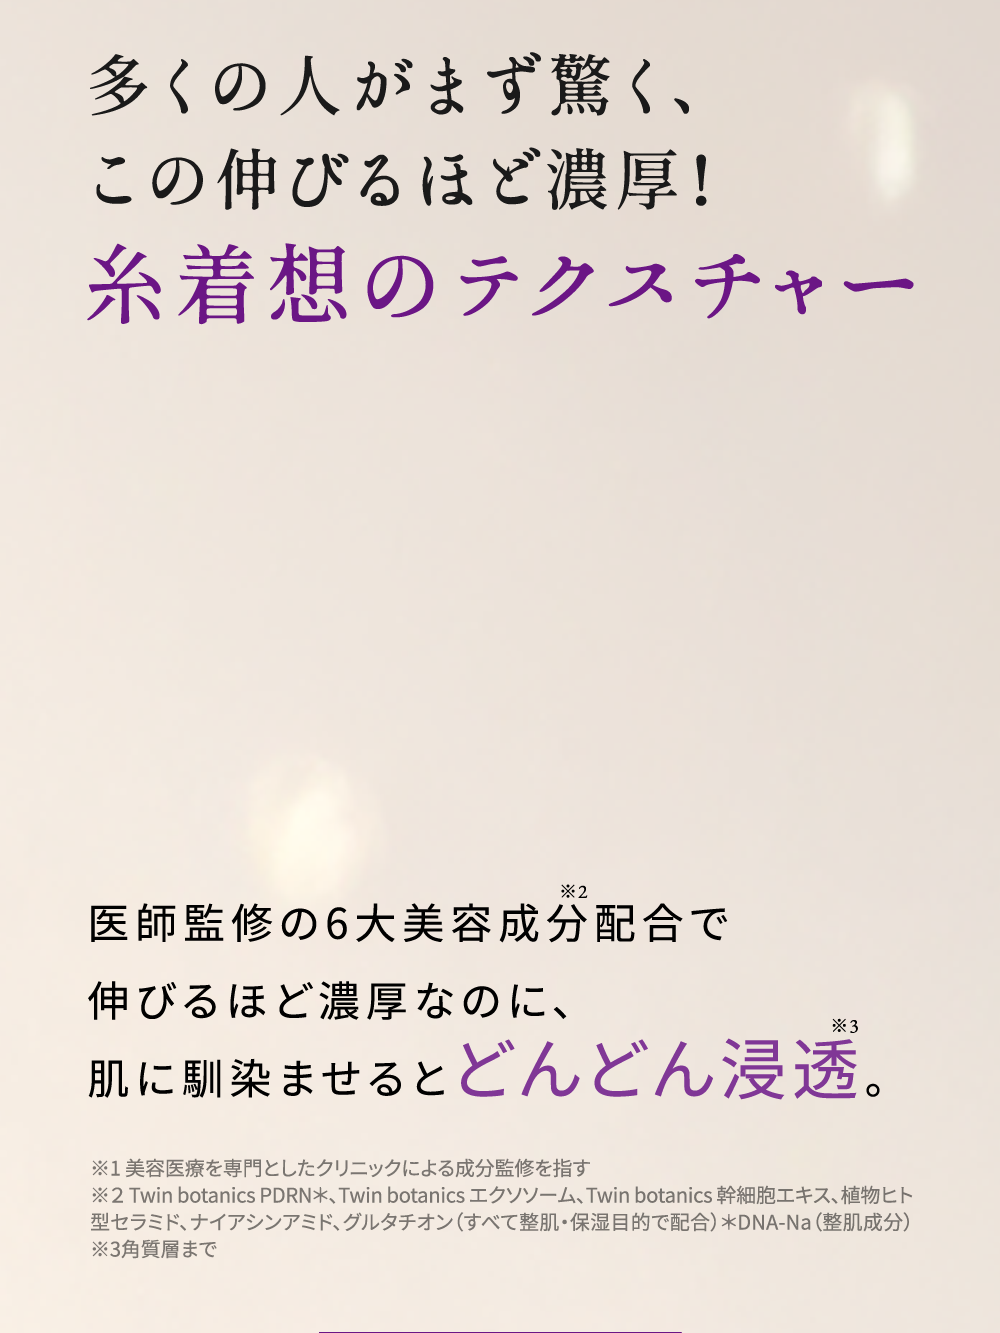
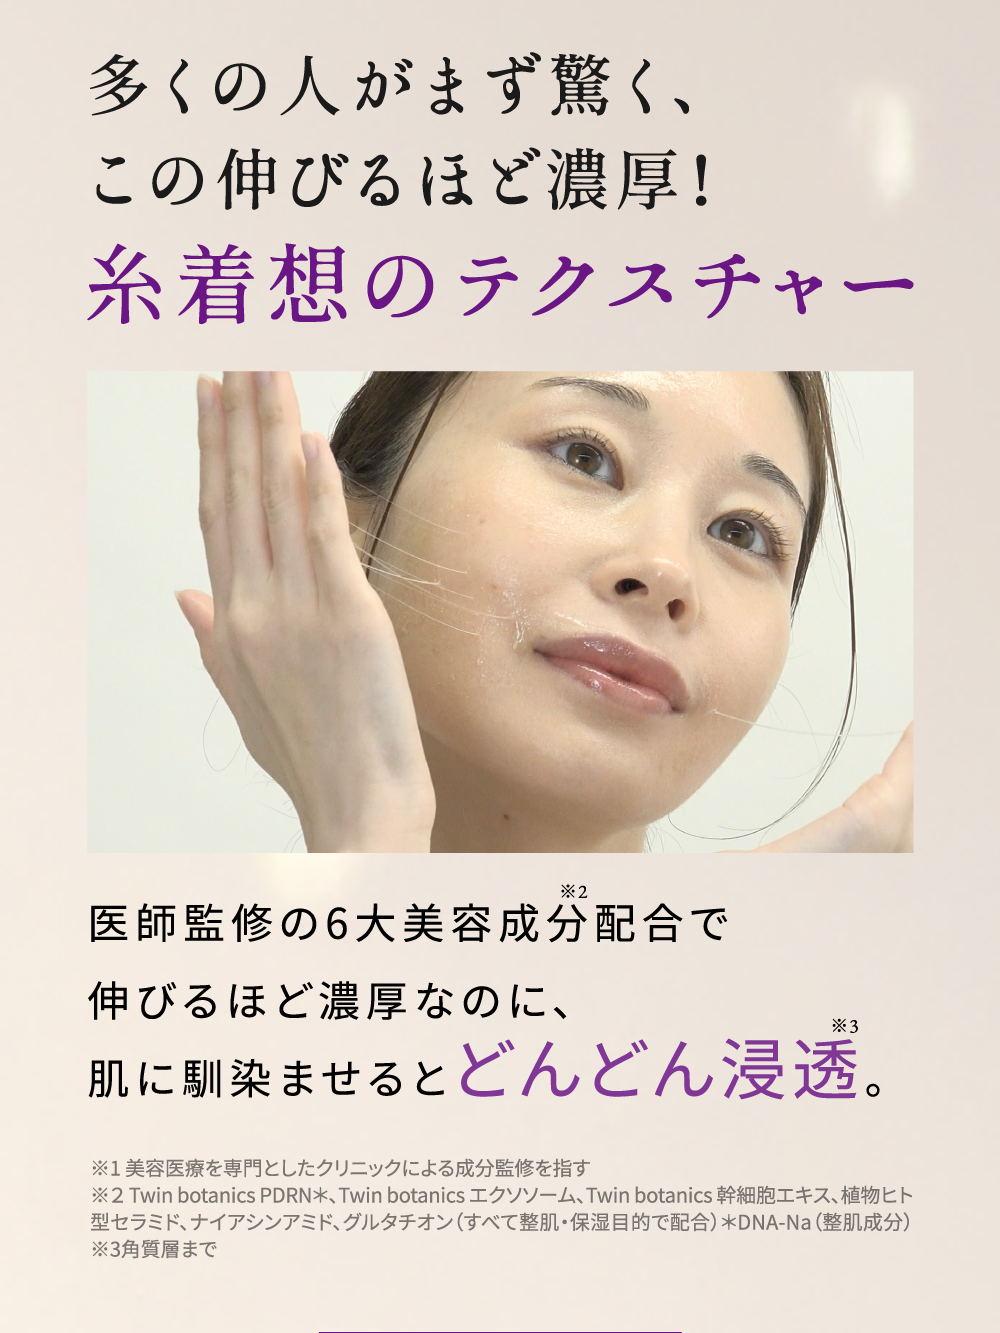
fix: 圖片調整

Changed region(s): [[0.155, 0.2768, 0.868, 0.6459], [0.744, 0.5536, 0.93, 0.6459]]

diff --git a/index.html b/index.html
@@ -357,8 +357,10 @@
     <section class="bg BG_20">
       <div class="container relative">
         <img class="lazy" data-src="./images/BG/BG_20.png" width="1000" height="324">
-        <img class="lazy absolute thing20-1" data-src="images/thing20-1.png" width="424" height="19">
-        <img class="lazy absolute thing20-2" data-src="images/thing20-2.png" width="811" height="221">
+        <img class="lazy absolute thing20-1 collapse-trigger" data-src="images/thing20-1.png" width="424" height="19" onclick="scrollShow('.bg20-body')">
+        <div class="bg20-body close_img">
+          <img class="lazy" data-src="images/thing20-2.png" width="811" height="221">
+        </div>
       </div>
     </section>
     <section class="bg BG_21">

diff --git a/css/all.css b/css/all.css
@@ -629,6 +629,18 @@ a {
     left: 9.5%;
 }
 
+.thing20-1.collapse-trigger {
+    cursor: pointer;
+}
+
+.bg20-body {
+    position: absolute;
+    top: 19.5%;
+    left: 9.5%;
+    width: 81.1% !important;
+    overflow: hidden;
+}
+
 .thing21-1 {
     width: 58.7%;
     top: 22.1%;
@@ -692,7 +704,7 @@ a {
 .thing22-video-box {
     width: 82.8%;
     height: 36.2%;
-    top: 28.1%;
+    top: 27.8%;
     left: 8.6%;
     overflow: hidden;
 }
